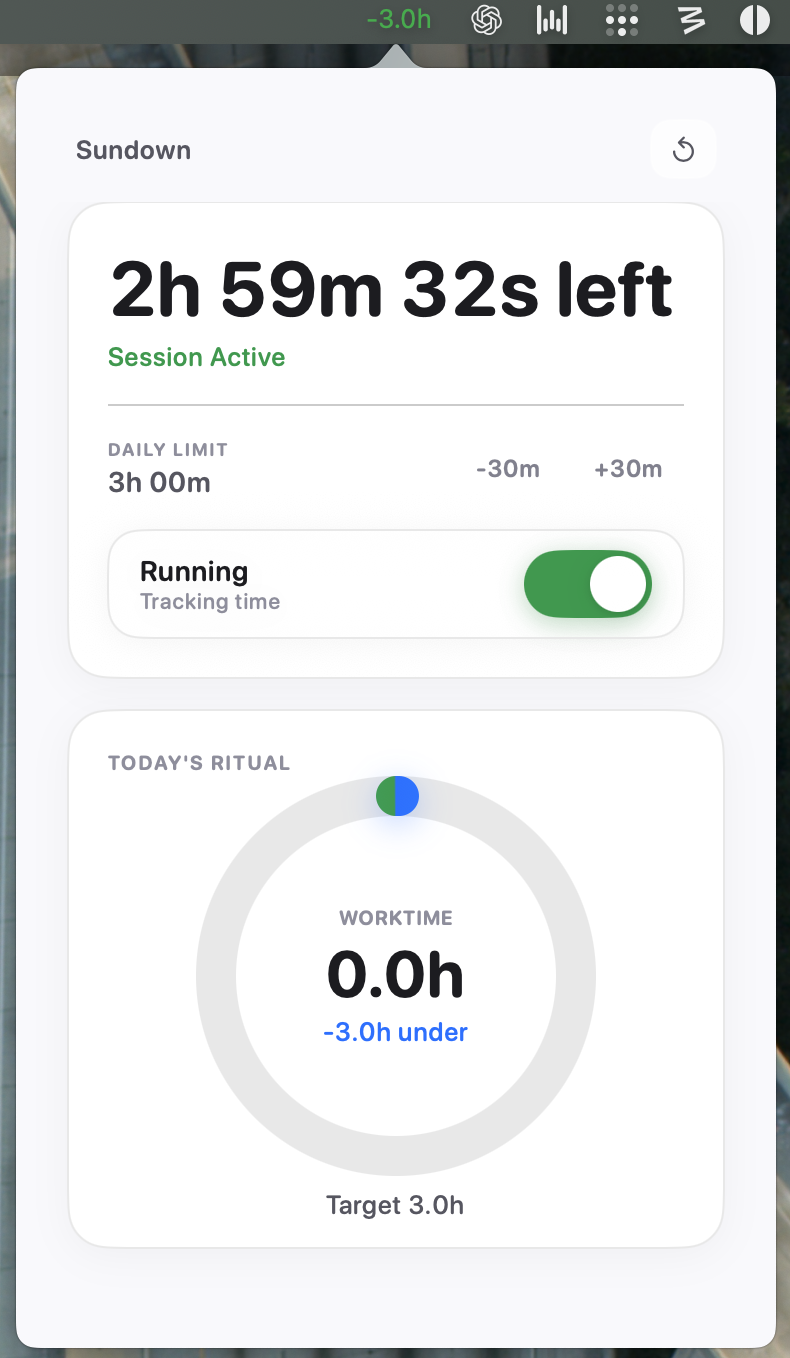
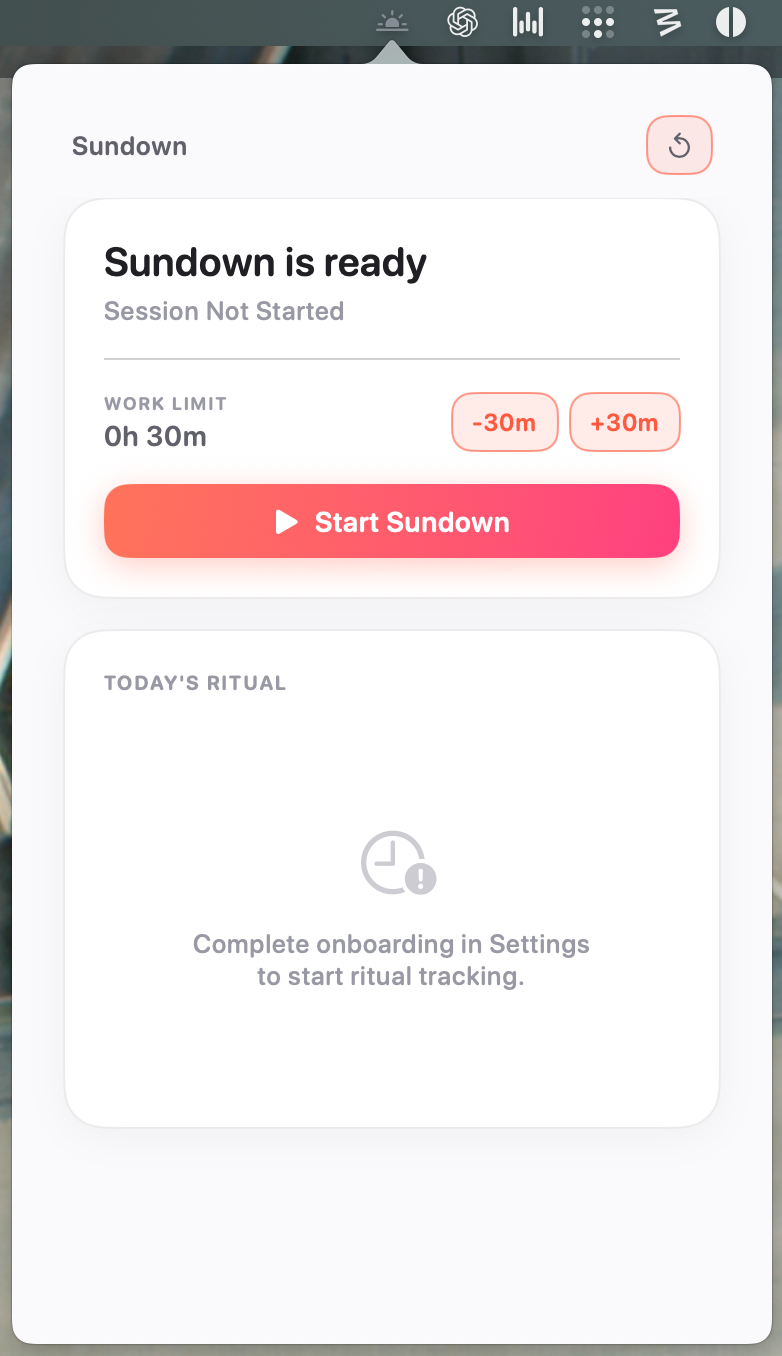
Finalize sunset button theme and release polish

diff --git a/Sources/SundownApp/SundownApp.swift b/Sources/SundownApp/SundownApp.swift
@@ -601,8 +601,8 @@ private struct SettingsWindowView: View {
 
             ScrollView {
                 VStack(spacing: 10) {
-                    SettingsCard(title: "QA Lab") {
-                        Text("Run one-click scenarios to verify onboarding, overwork, idle/break, and notification behavior.")
+                    SettingsCard(title: "Lab") {
+                        Text("Developer mode: quick sandbox for trying edge cases before shipping.")
                             .font(.caption)
                             .foregroundStyle(UIStyle.subtleText)
 
@@ -644,7 +644,7 @@ private struct SettingsWindowView: View {
                     }
                 }
             }
-            .tabItem { Label("QA Lab", systemImage: "testtube.2") }
+            .tabItem { Label("Lab", systemImage: "testtube.2") }
             .tag(SettingsTab.qa)
         }
     }
@@ -732,14 +732,15 @@ private struct PrimaryButtonStyle: ButtonStyle {
             configuration.label
                 .background(
                     RoundedRectangle(cornerRadius: 12, style: .continuous)
-                        .fill(UIStyle.activeBlue)
+                        .fill(UIStyle.sunsetGradient)
                         .brightness(isHovering ? 0.08 : 0.0)
+                        .saturation(isHovering ? 1.1 : 1.0)
                 )
                 .foregroundStyle(Color.white)
                 .opacity(configuration.isPressed ? 0.9 : 1.0)
                 .scaleEffect(isHovering && !configuration.isPressed ? 1.02 : (configuration.isPressed ? 0.98 : 1.0))
                 .shadow(
-                    color: UIStyle.activeBlue.opacity(isHovering ? 0.5 : 0.3),
+                    color: UIStyle.sunsetOrange.opacity(isHovering ? 0.5 : 0.3),
                     radius: isHovering ? 12 : 8,
                     x: 0,
                     y: isHovering ? 6 : 4
@@ -783,7 +784,7 @@ private struct HeroGlassButtonStyle: ButtonStyle {
                 .opacity(configuration.isPressed ? 0.9 : 1.0)
                 .scaleEffect(configuration.isPressed ? 0.98 : 1.0)
                 .shadow(
-                    color: isHovering ? UIStyle.activeBlue.opacity(0.26) : Color.clear,
+                    color: isHovering ? UIStyle.sunsetOrange.opacity(0.26) : Color.clear,
                     radius: isHovering ? 8 : 0,
                     x: 0,
                     y: isHovering ? 3 : 0
@@ -798,26 +799,26 @@ private struct HeroGlassButtonStyle: ButtonStyle {
 
         private var backgroundColor: Color {
             if prominent {
-                return isHovering ? UIStyle.activeBlue.opacity(0.14) : Color.white.opacity(0.92)
+                return isHovering ? UIStyle.sunsetPink.opacity(0.28) : UIStyle.sunsetOrange.opacity(0.2)
             } else {
-                return isHovering ? Color.white.opacity(0.96) : Color.white.opacity(0.72)
+                return isHovering ? UIStyle.sunsetPink.opacity(0.2) : UIStyle.sunsetOrange.opacity(0.12)
             }
         }
 
         private var borderColor: Color {
             if isHovering {
-                return UIStyle.activeBlue.opacity(0.75)
+                return UIStyle.sunsetPink.opacity(0.82)
             } else {
-                return Color.white.opacity(0.45)
+                return UIStyle.sunsetOrange.opacity(0.62)
             }
         }
 
         private var foregroundColor: Color {
             if prominent {
-                return isHovering ? UIStyle.activeBlue : UIStyle.primaryText
+                return isHovering ? UIStyle.sunsetPink : UIStyle.sunsetOrange
             }
 
-            return isHovering ? UIStyle.activeBlue : UIStyle.subtleText
+            return isHovering ? UIStyle.sunsetPink : UIStyle.sunsetOrange
         }
     }
 }
@@ -1094,6 +1095,7 @@ private final class SundownViewModel: ObservableObject {
     var statusIconSnapshot: StatusIconSnapshot {
         StatusIconSnapshot(
             gateState: gateState,
+            hasStartedSundown: hasStartedSundown,
             worktimeState: worktimeState,
             dailyLimitMinutes: persistedSettings.dailyLimitMinutes,
             menuTitle: menuTitle,
@@ -1694,6 +1696,18 @@ enum UIStyle {
     static let successText = Color(red: 0.15, green: 0.65, blue: 0.35)
     static let activeBlue = Color(red: 0.0, green: 0.48, blue: 1.0)
     
+
+    // Sunset Palette
+    static let sunsetOrange = Color(red: 1.0, green: 0.35, blue: 0.25)
+    static let sunsetPink = Color(red: 1.0, green: 0.20, blue: 0.45)
+    static let sunsetGradient = LinearGradient(
+        colors: [
+            Color(red: 1.0, green: 0.45, blue: 0.35),
+            Color(red: 1.0, green: 0.25, blue: 0.50)
+        ],
+        startPoint: .topLeading,
+        endPoint: .bottomTrailing
+    )
     // Shadows
     static let shadowSubtle = Color.black.opacity(0.04)
     static let shadowDeep = Color.black.opacity(0.12)

diff --git a/Sources/SundownApp/StatusIconRenderer.swift b/Sources/SundownApp/StatusIconRenderer.swift
@@ -28,6 +28,7 @@ enum MenuBarDisplayMode: Int, CaseIterable {
 
 struct StatusIconSnapshot {
     let gateState: OnboardingGateState
+    let hasStartedSundown: Bool
     let worktimeState: WorktimeState?
     let dailyLimitMinutes: Int?
     let menuTitle: String
@@ -59,7 +60,8 @@ final class StatusIconRenderer {
         let color = color(for: snapshot, phase: phase)
         let image = symbolImage(color: color)
         let title = statusTitleText(snapshot: snapshot)
-        let showsIcon = snapshot.menuBarDisplayMode == .icon
+        let isWaitingToStart = snapshot.gateState == .allowed && !snapshot.hasStartedSundown
+        let showsIcon = snapshot.menuBarDisplayMode == .icon || isWaitingToStart
         let toolTip = toolTipText(snapshot: snapshot, phase: phase)
 
         return (
@@ -145,6 +147,10 @@ final class StatusIconRenderer {
 
     private func statusTitleText(snapshot: StatusIconSnapshot) -> String {
         guard snapshot.menuBarDisplayMode == .numeric else {
+            return ""
+        }
+
+        if snapshot.gateState == .allowed && !snapshot.hasStartedSundown {
             return ""
         }
 

diff --git a/Sources/SundownCore/NotificationService.swift b/Sources/SundownCore/NotificationService.swift
@@ -14,6 +14,10 @@ public final class UserNotificationCenterService: NotificationService {
     }
 
     public func requestAuthorizationIfNeeded() {
+        guard canAccessUserNotificationCenter else {
+            return
+        }
+
         let center = centerProvider()
         center.getNotificationSettings { settings in
             guard settings.authorizationStatus == .notDetermined else {
@@ -25,6 +29,10 @@ public final class UserNotificationCenterService: NotificationService {
     }
 
     public func sendOverLimitNotification(message: String) {
+        guard canAccessUserNotificationCenter else {
+            return
+        }
+
         let center = centerProvider()
         let content = UNMutableNotificationContent()
         content.title = "Sundown"
@@ -38,5 +46,9 @@ public final class UserNotificationCenterService: NotificationService {
         )
 
         center.add(request) { _ in }
+    }
+
+    private var canAccessUserNotificationCenter: Bool {
+        Bundle.main.bundleURL.pathExtension == "app"
     }
 }
